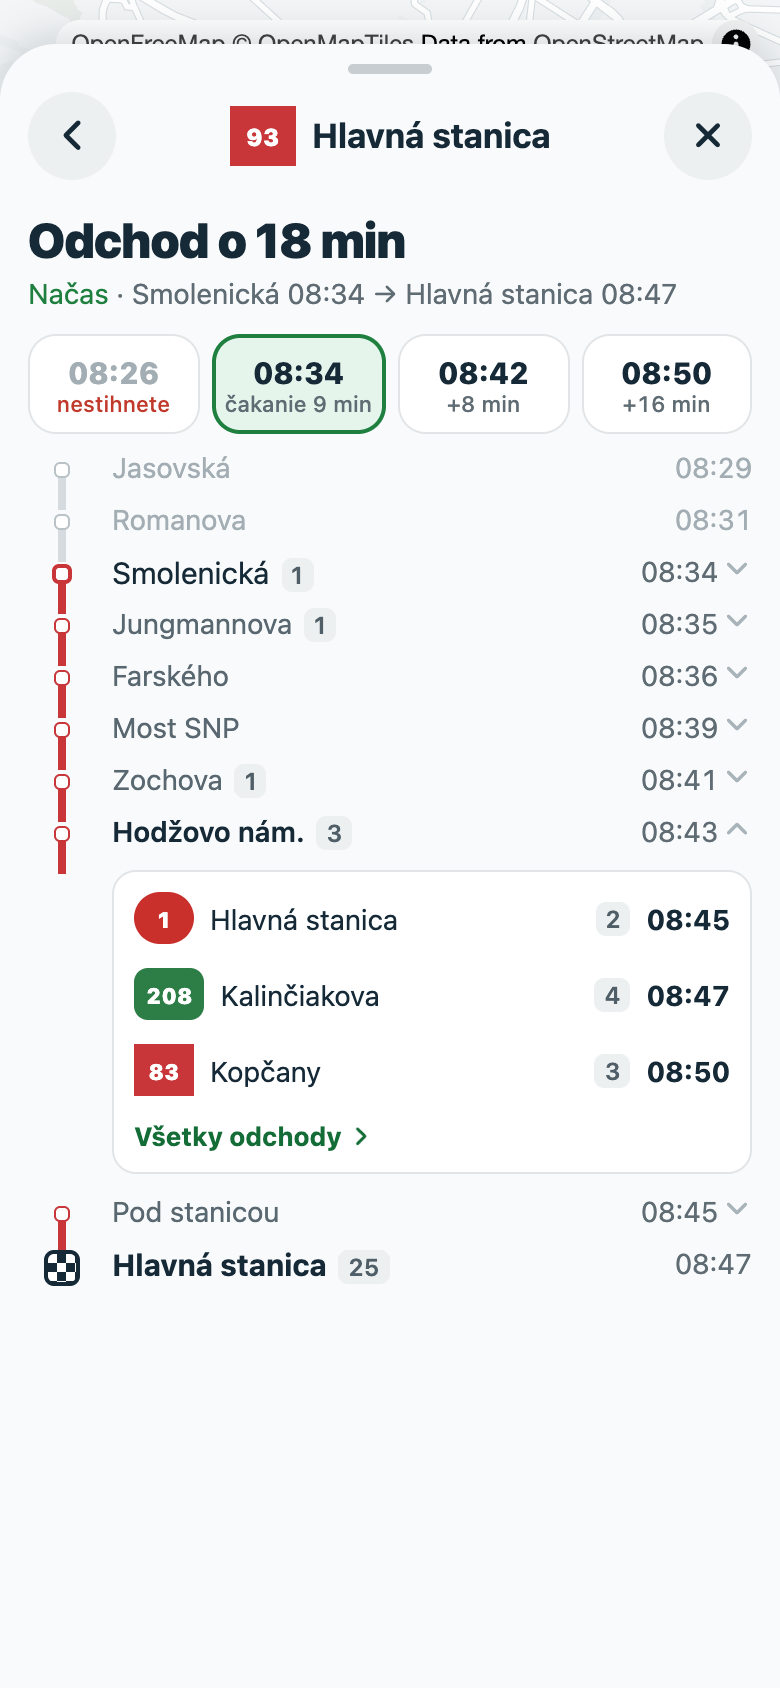
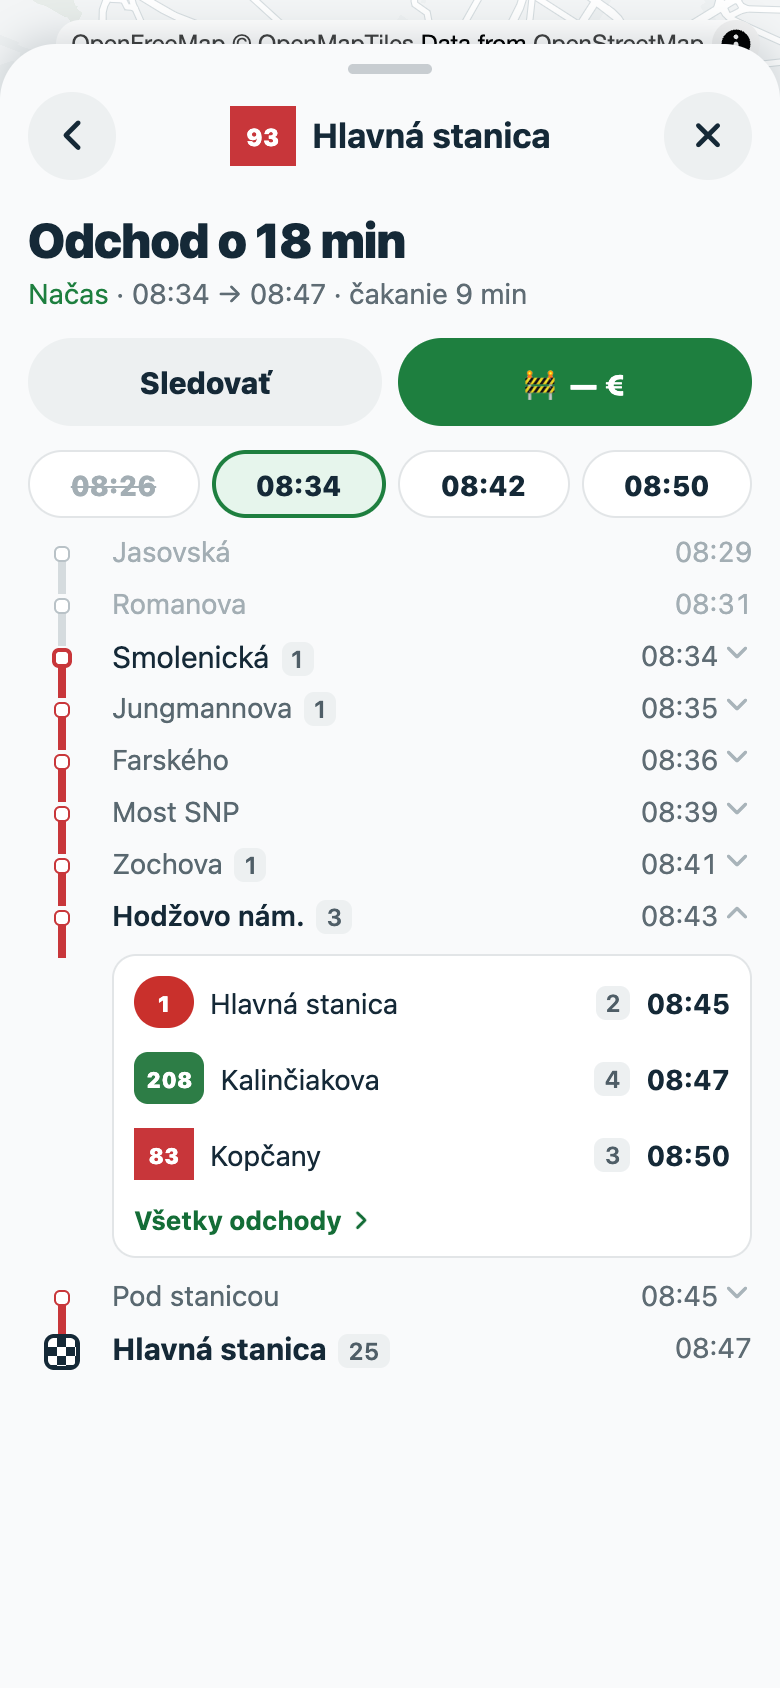
spoj unified journey: rev 2

diff --git a/spoj-unified-journey.html b/spoj-unified-journey.html
@@ -52,13 +52,13 @@ figcaption b{color:var(--text);display:block}
 <body>
 <main>
 <h1>The journey drawer: planner and Jazda as one</h1>
-<p class="sub">Spoj · proposal with mockups · 2026-10-28</p>
+<p class="sub">Spoj · proposal with mockups · 2026-10-28 · rev 2: decisions folded in, list vs card comparison</p>
 
 <div class="card tldr">
 <p><strong>One journey surface.</strong> A journey opened from the planner, from departures or from the map opens in its own <strong>journey drawer</strong>, stacked over the main drawer. It looks the same whether you track it or not; tracking only adds live state (headline, progress bar, vehicle on the rail).</p>
 <p><strong>The pill is that drawer, tucked.</strong> Minimise a tracked journey and the drawer shrinks into the pill above the main drawer. Tap the pill and it grows back into the same drawer you planned with.</p>
 <p><strong>Two tiers inside it.</strong> Tier 1 is the journey (steps). Tier 2 is one leg (every stop, earlier and later trips, departures after you arrive at a stop). Tier 3, optional, is one stop's full departures. Back pops these, then closes the drawer.</p>
-<p><strong>Same CTAs everywhere:</strong> <code>Sledovať / Nesledovať</code> plus the ticket button. Jazda's separate stop button goes away.</p>
+<p><strong>Same CTAs everywhere:</strong> <code>Sledovať / Nesledovať</code> plus the ticket button, under the headline on every tier, so a ticket is one tap away at any point of a journey. Jazda's separate stop button goes away.</p>
 </div>
 
 <h2>Flow</h2>
@@ -89,9 +89,9 @@ figcaption b{color:var(--text);display:block}
     <div class="edge"><b>Stop:</b> in tier 2 tap a stop → departures after you arrive unfold inline; <i>Všetky odchody ›</i> → tier 3.</div>
     <div class="edge"><b>Track:</b> Sledovať → same drawer, live. Header button turns from ✕ into ⌄ (minimise).</div>
     <div class="edge"><b>Tuck:</b> ⌄, or drag a tracked journey below peek → it shrinks into the pill and the main drawer rises back.</div>
-    <div class="edge"><b>Untuck:</b> tap or drag up the pill → it grows into the journey drawer at medium, at tier 1.</div>
+    <div class="edge"><b>Untuck:</b> tap or drag up the pill → it grows into the journey drawer at medium: at tier 2 of the leg you ride, or at tier 1 while you wait or walk (before boarding, between legs).</div>
     <div class="edge back"><b>Back</b> (Android key, Android browser back, iOS edge swipe): tier 3 → 2 → 1, then closes the drawer.</div>
-    <div class="edge back"><b>Closing a tracked journey tucks it</b> into the pill, as back from Jazda does today. Closing an untracked one dismisses it.</div>
+    <div class="edge back"><b>Closing a tracked journey tucks it</b> into the pill, as back from Jazda does today. Closing an untracked one dismisses it. The one exception stays as now: leaving the app with an untracked journey open that departs within 30 min starts tracking it.</div>
     <div class="edge back"><b>Nesledovať</b> leaves you in the open drawer, untracked; ✕ then dismisses it.</div>
   </div>
 </div>
@@ -102,12 +102,25 @@ figcaption b{color:var(--text);display:block}
   <figure><img src="spoj-unified-journey/s1.png" alt=""><figcaption><b>1 · Plánovač (main drawer)</b>Unchanged. Tapping a card opens the journey drawer instead of pushing details into this drawer.</figcaption></figure>
   <figure><img src="spoj-unified-journey/s2.png" alt=""><figcaption><b>2 · Journey drawer, medium</b>Its own sheet. ✕ closes it, back returns to the plánovač. Leg title rows end in › because they now open tier 2 instead of unfolding in place.</figcaption></figure>
   <figure><img src="spoj-unified-journey/s3.png" alt=""><figcaption><b>3 · Journey drawer, full height</b>Drag up and it reaches the status bar, which Jazda never could. The map comes back when you drag down.</figcaption></figure>
-  <figure><img src="spoj-unified-journey/s4.png" alt=""><figcaption><b>4 · Tier 2: one leg, not tracked</b>Earlier and later trips as chips (a missed change marked), the whole trip with the part you don't ride greyed out, and a stop opened to show what leaves after you arrive.</figcaption></figure>
+  <figure><img src="spoj-unified-journey/s4.png" alt=""><figcaption><b>4 · Tier 2: one leg, not tracked</b>The CTAs, then earlier and later trips as one-line chips (a missed one struck through), the whole trip with the part you don't ride greyed out, and a stop opened to show what leaves after you arrive.</figcaption></figure>
   <figure><img src="spoj-unified-journey/s5.png" alt=""><figcaption><b>5 · The same drawer, tracked</b>The headline turns into Jazda's instruction, countdown and progress bar. CTAs stay where they were: Nesledovať plus the ticket. Ridden legs fold to a ✓ line and the current leg is raised, showing where the vehicle is.</figcaption></figure>
-  <figure><img src="spoj-unified-journey/s6.png" alt=""><figcaption><b>6 · Tucked: the pill</b>⌄ or back shrinks drawer 5 into the strip; the main drawer comes back as it was. Tapping the strip runs the same morph in reverse.</figcaption></figure>
-  <figure><img src="spoj-unified-journey/s7.png" alt=""><figcaption><b>7 · Tier 2 while riding</b>Screen 4 with the vehicle on the rail and delayed times. The stops ahead still open to show departures after you arrive, so you can plan a change on the way.</figcaption></figure>
+  <figure><img src="spoj-unified-journey/s6.png" alt=""><figcaption><b>6 · Tucked: the pill</b>⌄ or back shrinks the drawer into the strip; the main drawer comes back as it was. Tapping the strip grows it back: into 7 while riding, into 5 while waiting or walking.</figcaption></figure>
+  <figure><img src="spoj-unified-journey/s7.png" alt=""><figcaption><b>7 · Tier 2 while riding</b>Where the pill reopens mid-leg. Screen 4 with the vehicle on the rail, delayed times and the ticket CTA; no alternative chips, since you are already on board. The stops ahead still open to show departures after you arrive, so you can plan a change on the way.</figcaption></figure>
   <figure><img src="spoj-unified-journey/s8.png" alt=""><figcaption><b>8 · Tier 3: a stop's departures</b>Everything leaving after you arrive, inside the journey drawer, so back returns to the leg. Today this jumps to the main drawer and closes Jazda.</figcaption></figure>
+  <figure><img src="spoj-unified-journey/s10.png" alt=""><figcaption><b>10 · Tier 2 at medium</b>The vertical-space check: headline, CTAs and the one-line chips take ~190 px, leaving four stops visible before you drag up. Chips are 34 px tall instead of the 50 px two-line version.</figcaption></figure>
 </div>
+
+<h2>Tier 1 while tracked: card or plain list</h2>
+<p>Same moment, two treatments of the leg you ride. <b>A</b> (left) folds ridden legs to a ✓ line and raises the current leg into a card. <b>B</b> (right) keeps today's plain list: ridden legs stay in place, greyed, with a ✓; the current leg is ordinary rows with the vehicle on the rail.</p>
+<figure><img src="spoj-unified-journey/cmp.png" alt="" style="max-width:780px;border-radius:12px"></figure>
+<table>
+<tr><th></th><th>A · card</th><th>B · plain list</th></tr>
+<tr><td>Finding "now"</td><td>Instant: the raised card</td><td>Through colour: grey above, red from here</td></tr>
+<tr><td>Space at medium</td><td>Fits the walk to the destination</td><td>~70 px taller; the last step scrolls</td></tr>
+<tr><td>Consistency</td><td>A new surface that only exists while tracked</td><td>Same rows as untracked tier 1 (2) and today's Jazda; tracking only recolours</td></tr>
+<tr><td>Morph</td><td>Card appears and disappears as legs change</td><td>Nothing jumps; rows grey out in place</td></tr>
+</table>
+<p class="small">Recommendation: B. It matches "tracking only adds live state" — the same list as when planning, with ridden parts greyed — and nothing reflows when a leg ends. A is worth it only if long journeys make "where am I" hard to spot, and the progress bar plus tier 2 already answer that.</p>
 
 <h2>What changes in code</h2>
 <table>
@@ -127,12 +140,13 @@ figcaption b{color:var(--text);display:block}
 </table>
 <p class="small">Suggested PRs: <b>(1)</b> the journey drawer and navigation, keeping today's content; <b>(2)</b> the unified headline, CTAs and the pill morph; <b>(3)</b> tier 2 and tier 3 pages. Each PR stays shippable.</p>
 
-<h2>Open questions</h2>
+<h2>Decisions</h2>
 <ol class="q">
-<li><strong>Tuck untracked journeys too?</strong> Proposed: no. ✕ dismisses them, and only a tracked journey earns the pill. The alternative is a pill for "the journey I was just looking at", which competes with the tracked one.</li>
-<li><strong>Where should the pill reopen?</strong> Proposed: tier 1 at medium, since time has passed and the overview is what you want. The alternative is the page you left (Apple Maps style).</li>
-<li><strong>Alternatives in tier 2:</strong> chips, as mocked, as well as the existing sideways swipe on tier 1 rows? Or chips only?</li>
-<li><strong>The main drawer under an open journey:</strong> hidden, as proposed, or visible as a strip at peek so you can jump back to search?</li>
+<li><strong>Untracked journeys don't tuck.</strong> ✕ dismisses them. Exception kept from #92: leaving the app with a journey open that departs within 30 min tracks it, so it comes back as the pill.</li>
+<li><strong>The pill reopens at the active leg's tier 2</strong> while you ride, and at tier 1 while you wait or walk. The back stack is built as if you had navigated there, so back from 7 goes to tier 1, then tucks.</li>
+<li><strong>Alternatives in tier 2 as one-line chips</strong>, plus the existing swipe on tier 1 rows. Chips hide on a leg you are riding. The CTAs sit above them on every tier, so the ticket stays reachable throughout.</li>
+<li><strong>The main drawer is hidden</strong> while a journey is open.</li>
+<li><strong>Open: card or plain list for the current leg in tier 1</strong>, see the comparison above. Recommended: plain list.</li>
 </ol>
 </main>
 </body>
